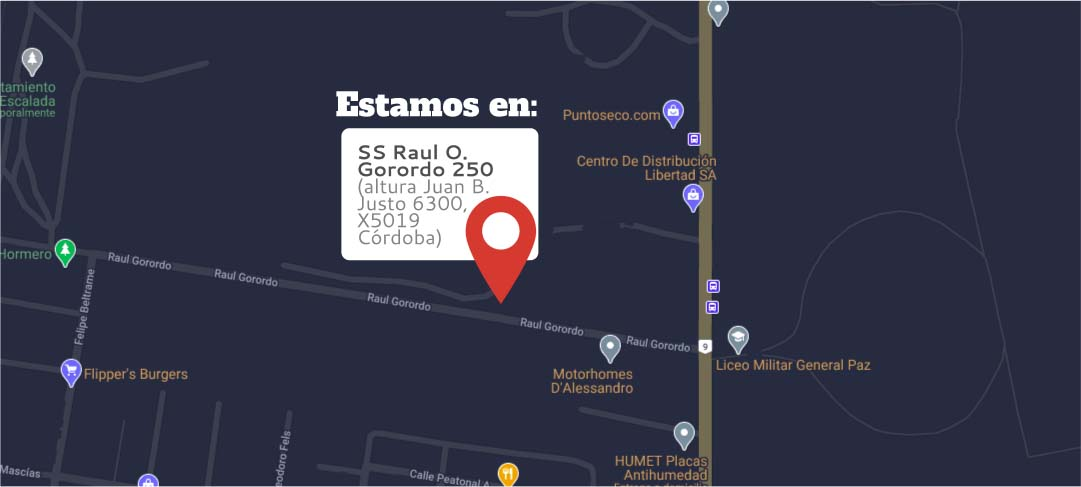
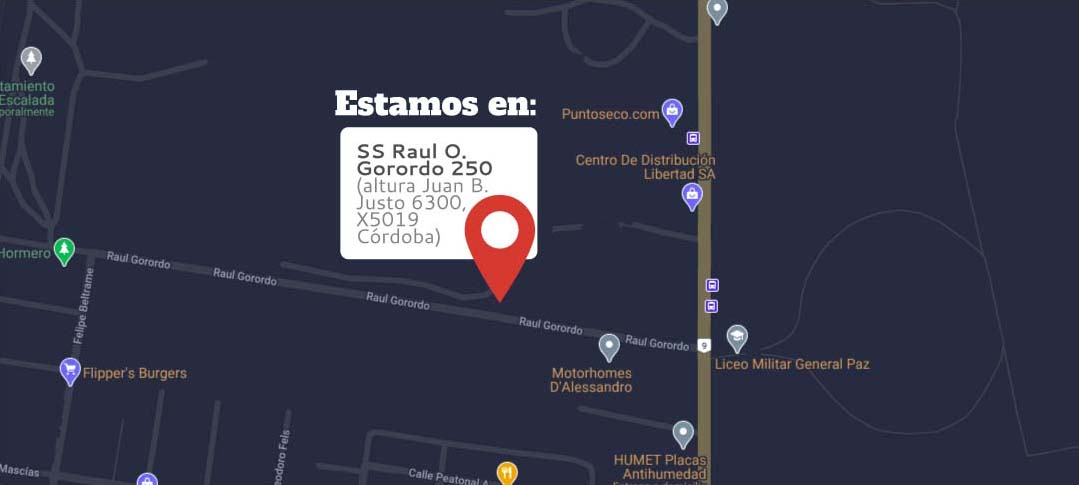
fixed png image conflicts

diff --git a/dist/css/styles.min.css b/dist/css/styles.min.css
@@ -1,2 +1,2 @@
-@import url("https://fonts.googleapis.com/css2?family=Montserrat:wght@600&display=swap&family=Work+Sans&display=swap");@media (max-width: 375px){.jumbotron-main-img{max-height:80%}#carousel-obras .container-lg{padding:0px !important;margin:0px}}@media (max-width: 576px){#obras .container-lg{width:100%;padding-left:0px;padding-right:0px}.display-3{font-size:1.5rem}}@media (min-width: 990px){.jumbotron-fluid{min-height:80vh;padding-bottom:10rem;padding-top:4rem;background-color:#E0E0E0}.jumbotron-fluid .jumbotron-panel h1{color:#2E9AD5}.jumbotron-fluid .jumbotron-panel p{font-size:24px}.jumbotron-fluid .jumbotron-panel button{padding:8px;font-size:1rem}.jumbotron-fluid .jumbotron-panel .display-3{font-size:2.5rem}.jumbotron-fluid .jumbotron-panel .hero__description{font-size:1rem}#servicios .service-overlap{margin-top:-118px !important}#servicios .service-overlap article.card{min-height:483px}#carousel-productos{width:50% !important;margin:0 auto}h3{font-size:2.2rem}}#obras .carousel-item .overlay-container{top:30%;bottom:30px;right:90px;left:30px;width:50%;height:50%;text-align:left}#obras .carousel-item img{max-height:80vh;width:100vw;-o-object-fit:cover;object-fit:cover}html{scroll-behavior:smooth}:root{--title: "Montserrat", sans-serif;--text: "Work Sans", sans-serif;--slider-title: 28px;--azul-principal: #006ca7;--azul-secundario: #2e9ad5;--max-height: calc(100vw / 3 * 2)}.main-blue{color:var(--azul-principal)}body{font-family:var(--text);padding:0px;margin:0px;overflow-x:hidden;width:100vw}.white{color:white;-webkit-filter:drop-shadow(0 2px 2px #00000050);filter:drop-shadow(0 2px 2px #00000050)}header{position:fixed;background-color:white;display:block;z-index:100;width:100%;-webkit-box-shadow:0px 0px 2px 5px #00000010;box-shadow:0px 0px 2px 5px #00000010}main{padding-top:60px}.splide__slide img{width:100%;height:100%;-o-object-fit:cover;object-fit:cover}.description{opacity:0;position:absolute;top:0px;right:0px;left:0px;bottom:0px;background-color:var(--azul);color:white;padding:20px;-webkit-transition:all 0.5s ease-in;transition:all 0.5s ease-in}.logo-header{height:40px}h1,h2,h3,h4,h5,h6{font-family:var(--title)}@media (max-width: 991px){h2{margin-top:10px}}.display-3{color:var(--azul-principal);font-size:2.2rem}.btn-success{background-color:mediumseagreen;border:none}.btn-success:hover{background-color:forestgreen;border-color:var(--azul-principal)}.btn-primary:disabled{background-color:grey;border-color:grey;color:white}.navbar-light .navbar-nav .nav-link{font-size:28px;color:var(--azul-secundario)}.navbar-light .navbar-nav .nav-link a:hover{color:var(--azul-principal)}@media (min-width: 500px){.navbar-light .navbar-nav .nav-link{font-size:18px}}nav.bg-ligh.navbar-custom{padding-top:4rem;background-color:white !important}.card{-webkit-transition:all 200ms;transition:all 200ms}article.card{margin-top:40px}article.card:hover{background-color:var(--azul-principal);color:white}article.card:hover a{color:white}.servicios{padding:2rem 0rem 2rem 0rem;background-color:#c4c4c4}.servicios p{margin-bottom:0}.servicios .card>img{width:86px;padding-left:8px;padding-top:2rem}#obras{background-color:var(--azul-principal);padding-bottom:110px}#obras .overlay-container{position:absolute;background:rgba(255,255,255,0.8);right:0;top:0;width:auto;height:auto;-webkit-box-orient:vertical;-webkit-box-direction:normal;-ms-flex-direction:column;flex-direction:column;-webkit-box-align:center;-ms-flex-align:center;align-items:center;-webkit-box-pack:center;-ms-flex-pack:center;justify-content:center;display:-webkit-box;display:-ms-flexbox;display:flex;border-bottom-left-radius:40px;z-index:10}#obras .overlay-container .overlay-item{padding:50px;text-align:right}#obras .overlay-container .overlay-item h6{font-size:24px;padding-bottom:0px;color:var(--azul-principal);font-size:var(--slider-title);margin:0}@media (max-width: 500px){#obras .overlay-container .overlay-item{padding:20px 30px}}#hero .carousel-item img{min-height:500px;width:100vw;-o-object-fit:cover;object-fit:cover;max-height:100vh}#hero .carousel-item .overlay-container{position:absolute;background:rgba(255,255,255,0.8);width:100%;height:100%;top:0;bottom:0;right:0;left:0;color:white;-webkit-box-orient:vertical;-webkit-box-direction:normal;-ms-flex-direction:column;flex-direction:column;-webkit-box-align:center;-ms-flex-align:center;align-items:center;-webkit-box-pack:center;-ms-flex-pack:center;justify-content:center;display:-webkit-box;display:-ms-flexbox;display:flex}#hero .carousel-item .overlay-container .overlay-item{width:80%}#hero .carousel-item .overlay-container .overlay-item h6{font-size:28px;padding-bottom:20px;color:var(--azul-principal);font-size:var(--slider-title)}#hero .carousel-item .overlay-container .overlay-item p{color:var(--azul-secundario);font-size:18px}#clientes h4{color:var(--azul-principal)}.formulario-contacto{background:#262b3f}.formulario-contacto .form-group{color:white}#donde-estamos a>img{-o-object-fit:cover;object-fit:cover;-o-object-position:53%;object-position:53%;margin-top:0px}@media (max-width: 770px){#donde-estamos a>img{-o-object-fit:cover;object-fit:cover;min-height:332px;padding-top:36px;margin-bottom:0px}}#carousel-logo .carousel-inner{display:-webkit-box;display:-ms-flexbox;display:flex;-webkit-box-align:center;-ms-flex-align:center;align-items:center;min-height:238px;min-height:300px}footer{bottom:0px;background-image:url("../assets/imgs/footer-back.png");width:100vw;background-size:cover;background-repeat:no-repeat;background-position:center;padding:2.5rem 0rem 6rem 0rem}footer .footer-logo{height:58px;margin-top:2rem;margin-bottom:2rem}footer .footer-title{color:white;padding:0.5rem 2.1rem}footer .footer-icon{height:28px;margin-right:0.5rem;margin-top:6px}footer .footer-row{margin-bottom:2rem}footer .footer-row p{color:white;margin:0px;font-size:18px}footer .site-map{padding-left:2.5rem}footer .site-map a{color:white;display:block}@media (min-width: 990px){#obras .carousel-item .overlay-container{top:30%;bottom:30px;right:90px;left:30px;width:50%;height:50%;text-align:left}#obras .carousel-item img{max-height:80vh;-o-object-fit:cover;object-fit:cover}.carousel{margin:0 1.5rem 0 1.5rem}.carousel-inner{height:auto}.carousel-control-prev{margin-left:-100px}.carousel-control-next{margin-right:-100px}header{position:static}main{padding-top:0}}@media (max-width: 991px){.jumbotron-main-img{opacity:0.2}}.jumbotron-container{top:50vh;-webkit-transform:translateY(-44%);transform:translateY(-44%);z-index:50}.jumbotron{background-color:#ffffffc9}@media (max-width: 500px){.jumbotron{width:105vw;-webkit-transform:translateX(-18px);transform:translateX(-18px);background-color:transparent}.jumbotron .display-3{color:white;-webkit-filter:drop-shadow(0px 3px 2px #00000050);filter:drop-shadow(0px 3px 2px #00000050)}}.grid-logos{max-width:140px;-webkit-filter:grayscale(0.5);filter:grayscale(0.5);opacity:0.5;-webkit-transition:all 200ms;transition:all 200ms}.confirmacion{margin:auto;position:fixed;max-width:500px;width:calc(100vw - 50px);height:calc(100vw - 50px);max-height:300px;display:-webkit-box;display:-ms-flexbox;display:flex;-webkit-box-orient:vertical;-webkit-box-direction:normal;-ms-flex-direction:column;flex-direction:column;padding:30px;-webkit-box-pack:space-evenly;-ms-flex-pack:space-evenly;justify-content:space-evenly;-webkit-box-align:start;-ms-flex-align:start;align-items:flex-start;background-color:white;z-index:999;top:0;bottom:0;left:120%;right:0;-webkit-box-shadow:0 0 34px 12px #00000050;box-shadow:0 0 34px 12px #00000050;font-size:24px;-webkit-transition:left 200ms ease-in-out;transition:left 200ms ease-in-out}.confirmacion button{padding:3px 15px;-ms-flex-item-align:end;align-self:flex-end}.center{left:0}.spinner-span{display:none;border:4px solid #ffffff50;height:20px;width:20px;-webkit-transform:translate(23px, 4px) rotate(0deg);transform:translate(23px, 4px) rotate(0deg);border-radius:50%;border-left-color:white;-webkit-animation:spin 1s ease-in-out infinite;animation:spin 1s ease-in-out infinite}@-webkit-keyframes spin{0%{-webkit-transform:translate(23px, 4px) rotate(0deg);transform:translate(23px, 4px) rotate(0deg)}100%{-webkit-transform:translate(23px, 4px) rotate(360deg);transform:translate(23px, 4px) rotate(360deg)}}@keyframes spin{0%{-webkit-transform:translate(23px, 4px) rotate(0deg);transform:translate(23px, 4px) rotate(0deg)}100%{-webkit-transform:translate(23px, 4px) rotate(360deg);transform:translate(23px, 4px) rotate(360deg)}}.card__arrow::after{content:url(../assets/imgs/iconos/arrow.png);position:relative;top:6px;left:10px;-webkit-transition:all 200ms cubic-bezier(0, 0, 0, 1.47);transition:all 200ms cubic-bezier(0, 0, 0, 1.47)}.card:hover .card__arrow::after{content:url(../assets/imgs/iconos/arrow-white.png);left:30px}.product-overlay{opacity:0;display:block;width:100%;background:#000000a3;position:absolute;bottom:-100px;padding:10px;-webkit-transition:all 200ms;transition:all 200ms}.product-overlay .product-overlay__title{font-family:var(--title);color:white;text-align:center;margin-bottom:0}@media (max-width: 500px){.product-overlay{bottom:0;opacity:1}}.productos{background:url(../assets/imgs/productos-fondo.png);background-repeat:no-repeat;background-size:cover}.productos .product__items{color:white}.product-image,.obras-image{position:relative;overflow:hidden;max-height:var(--max-height);border-radius:6px}.product-image:hover::before,.obras-image:hover::before{top:-80px;opacity:0}.product-slide:hover>.product-overlay{bottom:0;opacity:1;border-top-left-radius:20px}html{scroll-behavior:smooth}.swiper-container{width:100%;height:100%}.swiper-slide{text-align:center;font-size:18px;display:-webkit-box;display:-ms-flexbox;display:flex;-webkit-box-pack:center;-ms-flex-pack:center;justify-content:center;-webkit-box-align:center;-ms-flex-align:center;align-items:center;border-radius:12px !important;height:-webkit-min-content;height:-moz-min-content;height:min-content;overflow:hidden}.swiper-img{height:100%;max-height:80vh;min-width:100%;-o-object-fit:cover;object-fit:cover}.clients-card{padding:30px;border-radius:10px;margin-bottom:10px;-webkit-transition:-webkit-box-shadow 300ms;transition:-webkit-box-shadow 300ms;transition:box-shadow 300ms;transition:box-shadow 300ms, -webkit-box-shadow 300ms}.clients-card:hover{-webkit-box-shadow:0px 5px 15px 0px #00000050;box-shadow:0px 5px 15px 0px #00000050}.clients-card:hover .grid-logos{opacity:1;-webkit-filter:grayscale(0);filter:grayscale(0)}.clients-card .clients-card__name{display:none}.filler{width:200px;height:137px;background:red;display:none}.clients-card:hover .clients-card__name{display:-webkit-box;display:-ms-flexbox;display:flex}.clients-card:hover+.filler{display:block}#myVideo{width:100%;min-width:770px;position:absolute;z-index:-1;-webkit-transform:scaleX(-1);transform:scaleX(-1)}.show-product-List{height:46px;padding-top:20px;overflow:hidden;-webkit-transition:height 500ms ease-in-out;transition:height 500ms ease-in-out;cursor:pointer}.expand{height:300px;padding-top:20px}#show-more-btn{text-align:center;display:block;font-family:var(--title);color:white;background-color:var(--azul-principal);width:auto;border-bottom-left-radius:60px;border-bottom-right-radius:60px;padding:0 20px 7px}.more-prods{position:relative;bottom:-20px}::-webkit-scrollbar{width:12px}::-webkit-scrollbar-track{-webkit-box-shadow:inset 0 0 5px grey;box-shadow:inset 0 0 5px grey;border-radius:10px}::-webkit-scrollbar-thumb{background:var(--azul-principal);border-radius:10px;-webkit-filter:drop-shadow(3px 3px 3px white);filter:drop-shadow(3px 3px 3px white)}.title-icon img{width:20px}.fab{position:fixed;bottom:50px;right:50px;width:56px;height:56px;background-color:var(--azul-principal);display:-webkit-box;display:-ms-flexbox;display:flex;-webkit-box-align:center;-ms-flex-align:center;align-items:center;-webkit-box-pack:center;-ms-flex-pack:center;justify-content:center;border-radius:100%;-webkit-box-shadow:0 2px 2px #00000050;box-shadow:0 2px 2px #00000050;z-index:100;-webkit-transition:all 200ms;transition:all 200ms}.fab:hover{-webkit-transform:translateY(-1px);transform:translateY(-1px);-webkit-box-shadow:0 1px 3px #00000050;box-shadow:0 1px 3px #00000050}.fab .fab__img{width:24px;height:24px}.fab:hover .chat-cloud{-webkit-transform:scale(1);transform:scale(1)}@media (max-width: 500px){.fab{right:30px;bottom:30px}}#contact-scroll{position:relative;bottom:60px}.contact-form-wrapper{z-index:2;position:relative;max-width:490px;margin:-57px 0px -49px 0px}.chat-cloud{position:absolute;left:-227px;padding:10px;background:white;border-radius:15px;-webkit-transition:all cubic-bezier(0.52, -0.02, 0.18, 1) 500ms;transition:all cubic-bezier(0.52, -0.02, 0.18, 1) 500ms;-webkit-transform:scale(0);transform:scale(0);-webkit-transform-origin:120% 60%;transform-origin:120% 60%}.chat-cloud .chat-cloud_triangle{position:absolute;bottom:0;right:-5.5px;width:0;height:0;border-left:14px solid transparent;border-right:7px solid transparent;border-bottom:14px solid white}.btn-outline-primary{border:1px solid mediumseagreen;color:white;color:gray}.btn-outline-primary:hover{color:white;background:mediumseagreen;border:1px solid mediumseagreen}@media (max-width: 500px){.btn-outline-primary{color:white}}.footer_link{display:block;color:white;font-size:18px;font-weight:lighter;text-decoration:underline}.footer_link:hover{color:var(--azul-secundario)}
+@import url("https://fonts.googleapis.com/css2?family=Montserrat:wght@600&display=swap&family=Work+Sans&display=swap");@media (max-width: 375px){.jumbotron-main-img{max-height:80%}#carousel-obras .container-lg{padding:0px !important;margin:0px}}@media (max-width: 576px){#obras .container-lg{width:100%;padding-left:0px;padding-right:0px}.display-3{font-size:1.5rem}}@media (min-width: 990px){.jumbotron-fluid{min-height:80vh;padding-bottom:10rem;padding-top:4rem;background-color:#E0E0E0}.jumbotron-fluid .jumbotron-panel h1{color:#2E9AD5}.jumbotron-fluid .jumbotron-panel p{font-size:24px}.jumbotron-fluid .jumbotron-panel button{padding:8px;font-size:1rem}.jumbotron-fluid .jumbotron-panel .display-3{font-size:2.5rem}.jumbotron-fluid .jumbotron-panel .hero__description{font-size:1rem}#servicios .service-overlap{margin-top:-118px !important}#servicios .service-overlap article.card{min-height:483px}#carousel-productos{width:50% !important;margin:0 auto}h3{font-size:2.2rem}}#obras .carousel-item .overlay-container{top:30%;bottom:30px;right:90px;left:30px;width:50%;height:50%;text-align:left}#obras .carousel-item img{max-height:80vh;width:100vw;-o-object-fit:cover;object-fit:cover}html{scroll-behavior:smooth}:root{--title: "Montserrat", sans-serif;--text: "Work Sans", sans-serif;--slider-title: 28px;--azul-principal: #006ca7;--azul-secundario: #2e9ad5;--max-height: calc(100vw / 3 * 2)}.main-blue{color:var(--azul-principal)}body{font-family:var(--text);padding:0px;margin:0px;overflow-x:hidden;width:100vw}.white{color:white;-webkit-filter:drop-shadow(0 2px 2px #00000050);filter:drop-shadow(0 2px 2px #00000050)}header{position:fixed;background-color:white;display:block;z-index:100;width:100%;-webkit-box-shadow:0px 0px 2px 5px #00000010;box-shadow:0px 0px 2px 5px #00000010}main{padding-top:60px}.splide__slide img{width:100%;height:100%;-o-object-fit:cover;object-fit:cover}.description{opacity:0;position:absolute;top:0px;right:0px;left:0px;bottom:0px;background-color:var(--azul);color:white;padding:20px;-webkit-transition:all 0.5s ease-in;transition:all 0.5s ease-in}.logo-header{height:40px}h1,h2,h3,h4,h5,h6{font-family:var(--title)}@media (max-width: 991px){h2{margin-top:10px}}.display-3{color:var(--azul-principal);font-size:2.2rem}.btn-success{background-color:mediumseagreen;border:none}.btn-success:hover{background-color:forestgreen;border-color:var(--azul-principal)}.btn-primary:disabled{background-color:grey;border-color:grey;color:white}.navbar-light .navbar-nav .nav-link{font-size:28px;color:var(--azul-secundario)}.navbar-light .navbar-nav .nav-link a:hover{color:var(--azul-principal)}@media (min-width: 500px){.navbar-light .navbar-nav .nav-link{font-size:18px}}nav.bg-ligh.navbar-custom{padding-top:4rem;background-color:white !important}.card{-webkit-transition:all 200ms;transition:all 200ms}article.card{margin-top:40px}article.card:hover{background-color:var(--azul-principal);color:white}article.card:hover a{color:white}.servicios{padding:2rem 0rem 2rem 0rem;background-color:#c4c4c4}.servicios p{margin-bottom:0}.servicios .card>img{width:86px;padding-left:8px;padding-top:2rem}#obras{background-color:var(--azul-principal);padding-bottom:110px}#obras .overlay-container{position:absolute;background:rgba(255,255,255,0.8);right:0;top:0;width:auto;height:auto;-webkit-box-orient:vertical;-webkit-box-direction:normal;-ms-flex-direction:column;flex-direction:column;-webkit-box-align:center;-ms-flex-align:center;align-items:center;-webkit-box-pack:center;-ms-flex-pack:center;justify-content:center;display:-webkit-box;display:-ms-flexbox;display:flex;border-bottom-left-radius:40px;z-index:10}#obras .overlay-container .overlay-item{padding:30px;text-align:right}#obras .overlay-container .overlay-item h6{font-size:24px;padding-bottom:0px;color:var(--azul-principal);font-size:var(--slider-title);margin:0}@media (max-width: 500px){#obras .overlay-container .overlay-item{padding:20px 30px}}#hero .carousel-item img{min-height:500px;width:100vw;-o-object-fit:cover;object-fit:cover;max-height:100vh}#hero .carousel-item .overlay-container{position:absolute;background:rgba(255,255,255,0.8);width:100%;height:100%;top:0;bottom:0;right:0;left:0;color:white;-webkit-box-orient:vertical;-webkit-box-direction:normal;-ms-flex-direction:column;flex-direction:column;-webkit-box-align:center;-ms-flex-align:center;align-items:center;-webkit-box-pack:center;-ms-flex-pack:center;justify-content:center;display:-webkit-box;display:-ms-flexbox;display:flex}#hero .carousel-item .overlay-container .overlay-item{width:80%}#hero .carousel-item .overlay-container .overlay-item h6{font-size:28px;padding-bottom:20px;color:var(--azul-principal);font-size:var(--slider-title)}#hero .carousel-item .overlay-container .overlay-item p{color:var(--azul-secundario);font-size:18px}#clientes h4{color:var(--azul-principal)}.formulario-contacto{background:#262b3f}.formulario-contacto .form-group{color:white}#donde-estamos a>img{-o-object-fit:cover;object-fit:cover;-o-object-position:53%;object-position:53%;margin-top:0px}@media (max-width: 770px){#donde-estamos a>img{-o-object-fit:cover;object-fit:cover;min-height:332px;padding-top:36px;margin-bottom:0px}}#carousel-logo .carousel-inner{display:-webkit-box;display:-ms-flexbox;display:flex;-webkit-box-align:center;-ms-flex-align:center;align-items:center;min-height:238px;min-height:300px}footer{bottom:0px;background-image:url("../assets/imgs/footer-back.jpg");width:100vw;background-size:cover;background-repeat:no-repeat;background-position:center;padding:2.5rem 0rem 6rem 0rem}footer .footer-logo{height:58px;margin-top:2rem;margin-bottom:2rem}footer .footer-title{color:white;padding:0.5rem 2.1rem}footer .footer-icon{height:28px;margin-right:0.5rem;margin-top:6px}footer .footer-row{margin-bottom:2rem}footer .footer-row p{color:white;margin:0px;font-size:18px}footer .site-map{padding-left:2.5rem}footer .site-map a{color:white;display:block}@media (min-width: 990px){#obras .carousel-item .overlay-container{top:30%;bottom:30px;right:90px;left:30px;width:50%;height:50%;text-align:left}#obras .carousel-item img{max-height:80vh;-o-object-fit:cover;object-fit:cover}.carousel{margin:0 1.5rem 0 1.5rem}.carousel-inner{height:auto}.carousel-control-prev{margin-left:-100px}.carousel-control-next{margin-right:-100px}header{position:static}main{padding-top:0}}@media (max-width: 991px){.jumbotron-main-img{opacity:0.2}}.jumbotron-container{top:50vh;-webkit-transform:translateY(-44%);transform:translateY(-44%);z-index:50}.jumbotron{background-color:#ffffffc9}@media (max-width: 500px){.jumbotron{width:105vw;-webkit-transform:translateX(-18px);transform:translateX(-18px);background-color:transparent}.jumbotron .display-3{color:white;-webkit-filter:drop-shadow(0px 3px 2px #00000050);filter:drop-shadow(0px 3px 2px #00000050)}}.grid-logos{max-width:140px;-webkit-filter:grayscale(0.5);filter:grayscale(0.5);opacity:0.5;-webkit-transition:all 200ms;transition:all 200ms}.confirmacion{margin:auto;position:fixed;max-width:500px;width:calc(100vw - 50px);height:calc(100vw - 50px);max-height:300px;display:-webkit-box;display:-ms-flexbox;display:flex;-webkit-box-orient:vertical;-webkit-box-direction:normal;-ms-flex-direction:column;flex-direction:column;padding:30px;-webkit-box-pack:space-evenly;-ms-flex-pack:space-evenly;justify-content:space-evenly;-webkit-box-align:start;-ms-flex-align:start;align-items:flex-start;background-color:white;z-index:999;top:0;bottom:0;left:120%;right:0;-webkit-box-shadow:0 0 34px 12px #00000050;box-shadow:0 0 34px 12px #00000050;font-size:24px;-webkit-transition:left 200ms ease-in-out;transition:left 200ms ease-in-out}.confirmacion button{padding:3px 15px;-ms-flex-item-align:end;align-self:flex-end}.center{left:0}.spinner-span{display:none;border:4px solid #ffffff50;height:20px;width:20px;-webkit-transform:translate(23px, 4px) rotate(0deg);transform:translate(23px, 4px) rotate(0deg);border-radius:50%;border-left-color:white;-webkit-animation:spin 1s ease-in-out infinite;animation:spin 1s ease-in-out infinite}@-webkit-keyframes spin{0%{-webkit-transform:translate(23px, 4px) rotate(0deg);transform:translate(23px, 4px) rotate(0deg)}100%{-webkit-transform:translate(23px, 4px) rotate(360deg);transform:translate(23px, 4px) rotate(360deg)}}@keyframes spin{0%{-webkit-transform:translate(23px, 4px) rotate(0deg);transform:translate(23px, 4px) rotate(0deg)}100%{-webkit-transform:translate(23px, 4px) rotate(360deg);transform:translate(23px, 4px) rotate(360deg)}}.card__arrow::after{content:url(../assets/imgs/iconos/arrow.png);position:relative;top:6px;left:10px;-webkit-transition:all 200ms cubic-bezier(0, 0, 0, 1.47);transition:all 200ms cubic-bezier(0, 0, 0, 1.47)}.card:hover .card__arrow::after{content:url(../assets/imgs/iconos/arrow-white.png);left:30px}.product-overlay{opacity:0;display:block;width:100%;background:#000000a3;position:absolute;bottom:-100px;padding:10px;-webkit-transition:all 200ms;transition:all 200ms}.product-overlay .product-overlay__title{font-family:var(--title);color:white;text-align:center;margin-bottom:0}@media (max-width: 500px){.product-overlay{bottom:0;opacity:1}}.productos{background:url(../assets/imgs/productos-fondo.jpg);background-repeat:no-repeat;background-size:cover}.productos .product__items{color:white}.product-image,.obras-image{position:relative;overflow:hidden;max-height:var(--max-height);border-radius:6px}.product-image:hover::before,.obras-image:hover::before{top:-80px;opacity:0}.product-slide:hover>.product-overlay{bottom:0;opacity:1;border-top-left-radius:20px}html{scroll-behavior:smooth}.swiper-container{width:100%;height:100%}.swiper-slide{text-align:center;font-size:18px;display:-webkit-box;display:-ms-flexbox;display:flex;-webkit-box-pack:center;-ms-flex-pack:center;justify-content:center;-webkit-box-align:center;-ms-flex-align:center;align-items:center;border-radius:12px !important;height:-webkit-min-content;height:-moz-min-content;height:min-content;overflow:hidden}.swiper-img{height:100%;max-height:80vh;min-width:100%;-o-object-fit:cover;object-fit:cover}.clients-card{padding:30px;border-radius:10px;margin-bottom:10px;-webkit-transition:-webkit-box-shadow 300ms;transition:-webkit-box-shadow 300ms;transition:box-shadow 300ms;transition:box-shadow 300ms, -webkit-box-shadow 300ms}.clients-card:hover{-webkit-box-shadow:0px 5px 15px 0px #00000050;box-shadow:0px 5px 15px 0px #00000050}.clients-card:hover .grid-logos{opacity:1;-webkit-filter:grayscale(0);filter:grayscale(0)}.clients-card .clients-card__name{display:none}.filler{width:200px;height:137px;background:red;display:none}.clients-card:hover .clients-card__name{display:-webkit-box;display:-ms-flexbox;display:flex}.clients-card:hover+.filler{display:block}#myVideo{width:100%;min-width:770px;position:absolute;z-index:-1;-webkit-transform:scaleX(-1);transform:scaleX(-1)}.show-product-List{height:46px;padding-top:20px;overflow:hidden;-webkit-transition:height 500ms ease-in-out;transition:height 500ms ease-in-out;cursor:pointer}.expand{height:300px;padding-top:20px}#show-more-btn{text-align:center;display:block;font-family:var(--title);color:white;background-color:var(--azul-principal);width:auto;border-bottom-left-radius:60px;border-bottom-right-radius:60px;padding:0 20px 7px}.more-prods{position:relative;bottom:-20px}::-webkit-scrollbar{width:12px}::-webkit-scrollbar-track{-webkit-box-shadow:inset 0 0 5px grey;box-shadow:inset 0 0 5px grey;border-radius:10px}::-webkit-scrollbar-thumb{background:var(--azul-principal);border-radius:10px;-webkit-filter:drop-shadow(3px 3px 3px white);filter:drop-shadow(3px 3px 3px white)}.title-icon img{width:20px}.fab{position:fixed;bottom:50px;right:50px;width:56px;height:56px;background-color:var(--azul-principal);display:-webkit-box;display:-ms-flexbox;display:flex;-webkit-box-align:center;-ms-flex-align:center;align-items:center;-webkit-box-pack:center;-ms-flex-pack:center;justify-content:center;border-radius:100%;-webkit-box-shadow:0 2px 2px #00000050;box-shadow:0 2px 2px #00000050;z-index:100;-webkit-transition:all 200ms;transition:all 200ms}.fab:hover{-webkit-transform:translateY(-1px);transform:translateY(-1px);-webkit-box-shadow:0 1px 3px #00000050;box-shadow:0 1px 3px #00000050}.fab .fab__img{width:24px;height:24px}.fab:hover .chat-cloud{-webkit-transform:scale(1);transform:scale(1)}@media (max-width: 500px){.fab{right:30px;bottom:30px}}#contact-scroll{position:relative;bottom:60px}.contact-form-wrapper{z-index:2;position:relative;max-width:490px;margin:-57px 0px -49px 0px}.chat-cloud{position:absolute;left:-227px;padding:10px;background:white;border-radius:15px;-webkit-transition:all cubic-bezier(0.52, -0.02, 0.18, 1) 500ms;transition:all cubic-bezier(0.52, -0.02, 0.18, 1) 500ms;-webkit-transform:scale(0);transform:scale(0);-webkit-transform-origin:120% 60%;transform-origin:120% 60%}.chat-cloud .chat-cloud_triangle{position:absolute;bottom:0;right:-5.5px;width:0;height:0;border-left:14px solid transparent;border-right:7px solid transparent;border-bottom:14px solid white}.btn-outline-primary{border:1px solid mediumseagreen;color:white;color:gray}.btn-outline-primary:hover{color:white;background:mediumseagreen;border:1px solid mediumseagreen}@media (max-width: 500px){.btn-outline-primary{color:white}}.footer_link{display:block;color:white;font-size:18px;font-weight:lighter;text-decoration:underline}.footer_link:hover{color:var(--azul-secundario)}
 /*# sourceMappingURL=styles.min.css.map */

diff --git a/styles.scss b/styles.scss
@@ -167,7 +167,7 @@ article.card {
     border-bottom-left-radius: 40px;
     z-index: 10;
     .overlay-item {
-      padding: 50px;
+      padding: 30px;
       text-align: right;
       h6 {
         font-size: 24px;
@@ -264,7 +264,7 @@ article.card {
 
 footer {
   bottom: 0px;
-  background-image: url("../assets/imgs/footer-back.png");
+  background-image: url("../assets/imgs/footer-back.jpg");
   width: 100vw;
   background-size: cover;
   background-repeat: no-repeat;
@@ -472,7 +472,7 @@ footer {
 }
 
 .productos {
-  background: url(../assets/imgs/productos-fondo.png);
+  background: url(../assets/imgs/productos-fondo.jpg);
   background-repeat: no-repeat;
   background-size: cover;
   .product__items {

diff --git a/css/styles.css b/css/styles.css
@@ -267,7 +267,7 @@ article.card:hover a {
 }
 
 #obras .overlay-container .overlay-item {
-  padding: 50px;
+  padding: 30px;
   text-align: right;
 }
 
@@ -377,7 +377,7 @@ article.card:hover a {
 
 footer {
   bottom: 0px;
-  background-image: url("../assets/imgs/footer-back.png");
+  background-image: url("../assets/imgs/footer-back.jpg");
   width: 100vw;
   background-size: cover;
   background-repeat: no-repeat;
@@ -618,7 +618,7 @@ footer .site-map a {
 }
 
 .productos {
-  background: url(../assets/imgs/productos-fondo.png);
+  background: url(../assets/imgs/productos-fondo.jpg);
   background-repeat: no-repeat;
   background-size: cover;
 }

diff --git a/obras.js b/obras.js
@@ -83,9 +83,8 @@ const slideGenerator = (array) => {
                   j == 0
                     ? `<span class="overlay-container">
                     <span class="overlay-item">
-                    <h6 style="margin-right: -11px;"> Obra: "${array[i].title}" </h6> 
-                    <h4>${array[i].description}</h4>
-                    <h5 style="color: gray; line-height: 10px;"> Año: ${array[i].year} </h5> 
+                    <h6 >${array[i].description}</h6> 
+                    <h5 style="color: gray; margin-top: 6px;"> Año: ${array[i].year} </h5> 
                 </span>
               </span>`
                     : ""

diff --git a/index.html b/index.html
@@ -312,7 +312,7 @@
         href="https://www.google.com/maps/place/HASA+S.A/@-31.3479384,-64.178957,18z/data=!4m5!3m4!1s0x943299bde333735f:0xeee11d3a175398a7!8m2!3d-31.347595!4d-64.17846"
         target="_blank">
         <img loading="lazy" class="img-fluid w-100 h-100"
-          src="./assets/imgs/mapaHasa.png"
+          src="./assets/imgs/mapaHasa.jpg"
           alt=""
           >
       </a>
